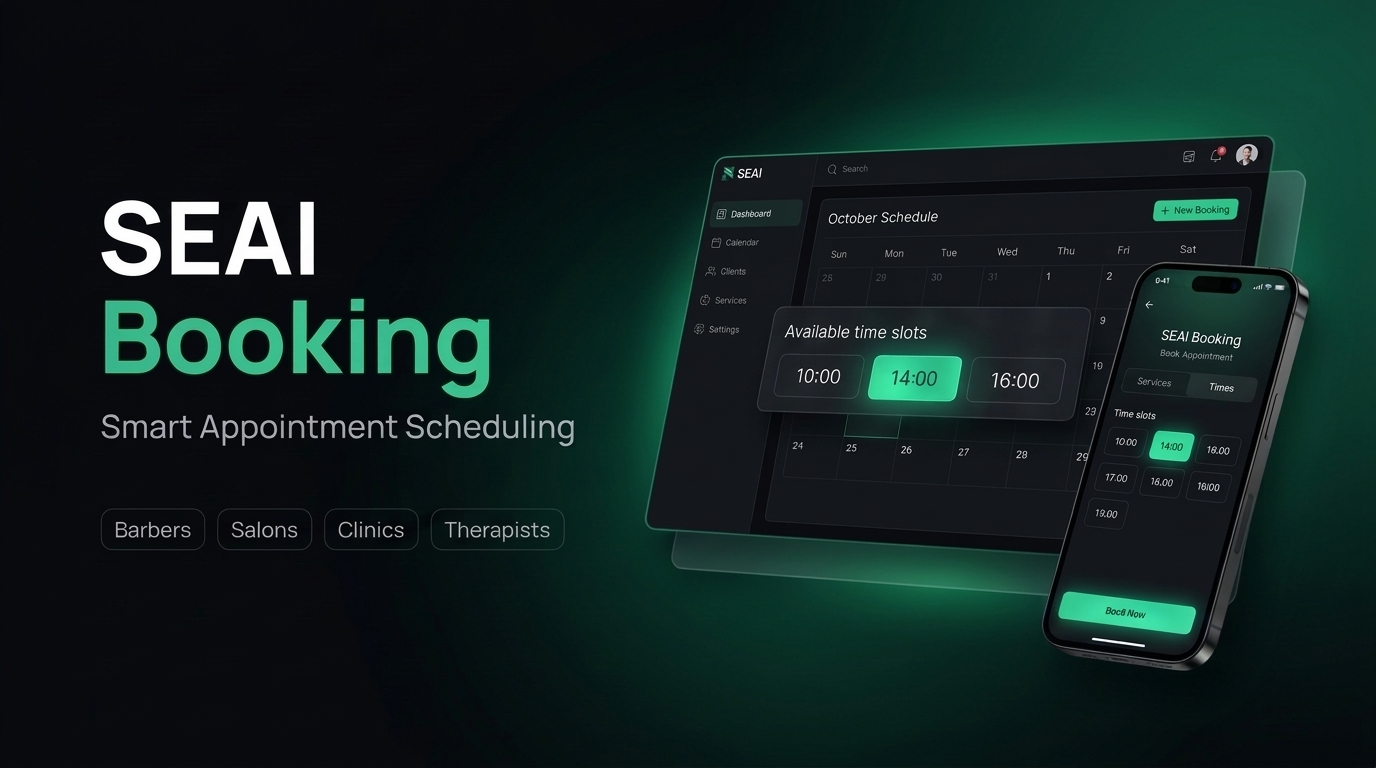
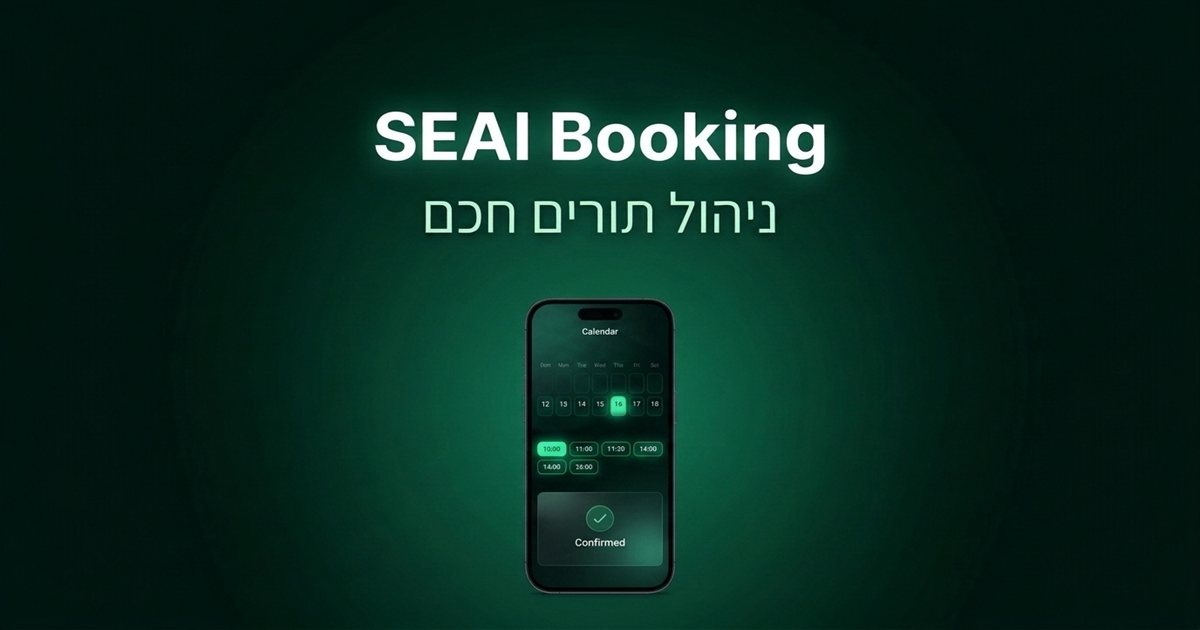
feat(seo): update og-preview with centered composition safe for WhatsApp Web square crop

diff --git a/booking-demo/index.html b/booking-demo/index.html
@@ -10,8 +10,8 @@
   <meta property="og:site_name" content="SEAI Automations">
   <meta property="og:title" content="מערכת חכמה לניהול תורים ואוטומציה - SEAI">
   <meta property="og:description" content="סנכרון יומן בלייב, גבייה והפקת חשבוניות אוטומטית למספרות, קליניקות, מטפלים ויועצים. לחץ להתנסות בדמו החי.">
-  <meta property="og:image" content="https://segevshmuali-eng.github.io/booking-demo/og-preview.jpg">
-  <meta property="og:image:secure_url" content="https://segevshmuali-eng.github.io/booking-demo/og-preview.jpg">
+  <meta property="og:image" content="https://segevshmuali-eng.github.io/booking-demo/og-preview.jpg?v=2">
+  <meta property="og:image:secure_url" content="https://segevshmuali-eng.github.io/booking-demo/og-preview.jpg?v=2">
   <meta property="og:image:type" content="image/jpeg">
   <meta property="og:image:width" content="1200">
   <meta property="og:image:height" content="630">
